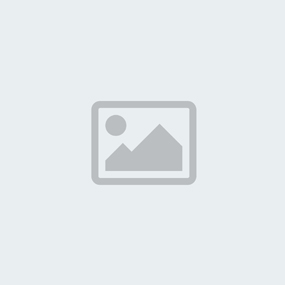
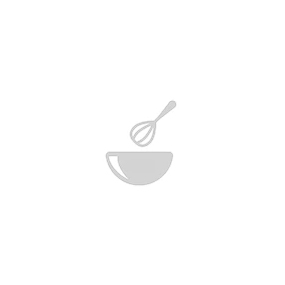
Add extension recipe title validation, Add default recipe image

Changed region(s): [[0.3088, 0.3368, 0.7018, 0.6737]]

diff --git a/app.js b/app.js
@@ -1,6 +1,3 @@
-// Check for duplicate recipe entries - IN PROGRESS
-// Extension recipe name validation
-// Default image
 // Sign up modal for click favorites
 // Automatically favorite when adding
 // Leftover session state after logging in
@@ -77,7 +74,7 @@ cloudinary.config({
   api_key: '778489856867779', 
   api_secret: cloudinarySecret, 
 });
-const cloudinaryOptions = { gravity: 'center', height: 500, width: 500, crop: 'fill', };
+const cloudinaryOptions = { gravity: 'center', height: 285, width: 285, crop: 'fill', };
 
 
 // Middleware
@@ -199,7 +196,7 @@ app.post('/api/extension', (req, res) => {
 
           const recipe = new Recipe({
             title: req.body.title,
-            image: result.secure_url,
+            image: result.secure_url || 'http://res.cloudinary.com/dormh2fvt/image/upload/v1527317481/placeholder_rjy55k.jpg',
             host: req.body.host,
             url: req.body.url,
             favorites: 1,

diff --git a/extension/popup.html b/extension/popup.html
@@ -179,6 +179,14 @@
       	background-color: #3ecf83;
       }
 
+      #recipe-title-validation {
+        display: none;
+        text-align: center;
+        margin-top: 8px;
+        color: red;
+        font-size: 14px;
+      }
+
       .post-message {
         text-align: center;
         font-size: 17px;
@@ -449,6 +457,8 @@
               <option value="vegetarian">Vegetarian</option>
             </select>
           </div>
+
+          <div id="recipe-title-validation">Please add a recipe name!</div>
 
 	        <button id="submit-recipe">Submit</button>
 	      </div>

diff --git a/extension/popup.js b/extension/popup.js
@@ -24,6 +24,13 @@ chrome.tabs.query({active: true, currentWindow: true}, function(tabs) {
 $('#submit-recipe').click(function() {
 
 	console.log('submitting recipe!');
+  $('#recipe-title-validation').hide();
+
+  // Validate that a recipe name exists
+  if (!$('#recipe-title').val().length) {
+    return $('#recipe-title-validation').show();
+  }
+
   $('.sk-fading-circle, #overlay').show();
 
   // Filter categories for null values
